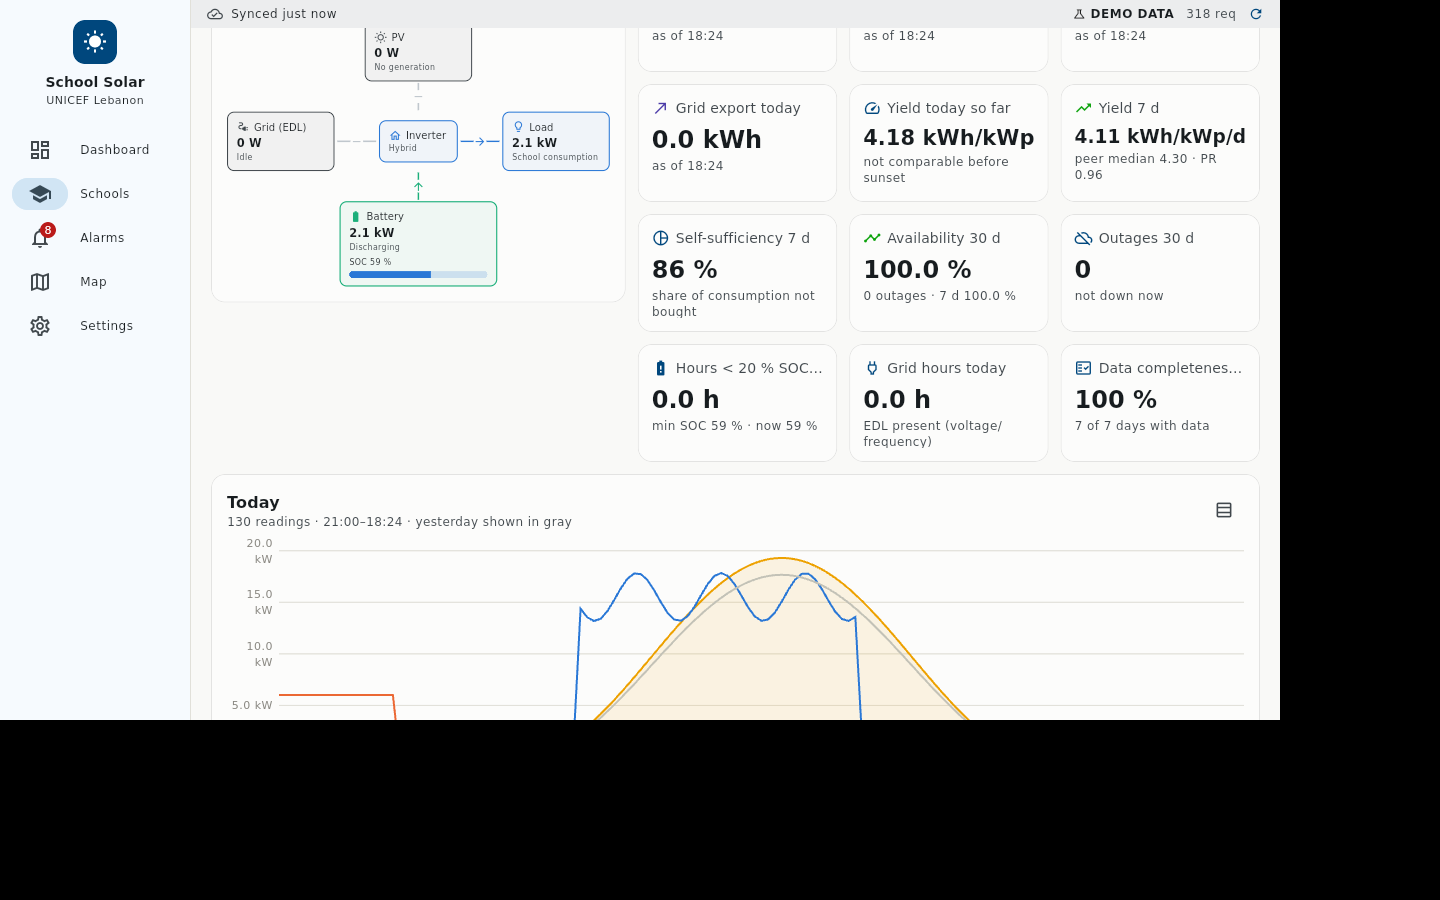
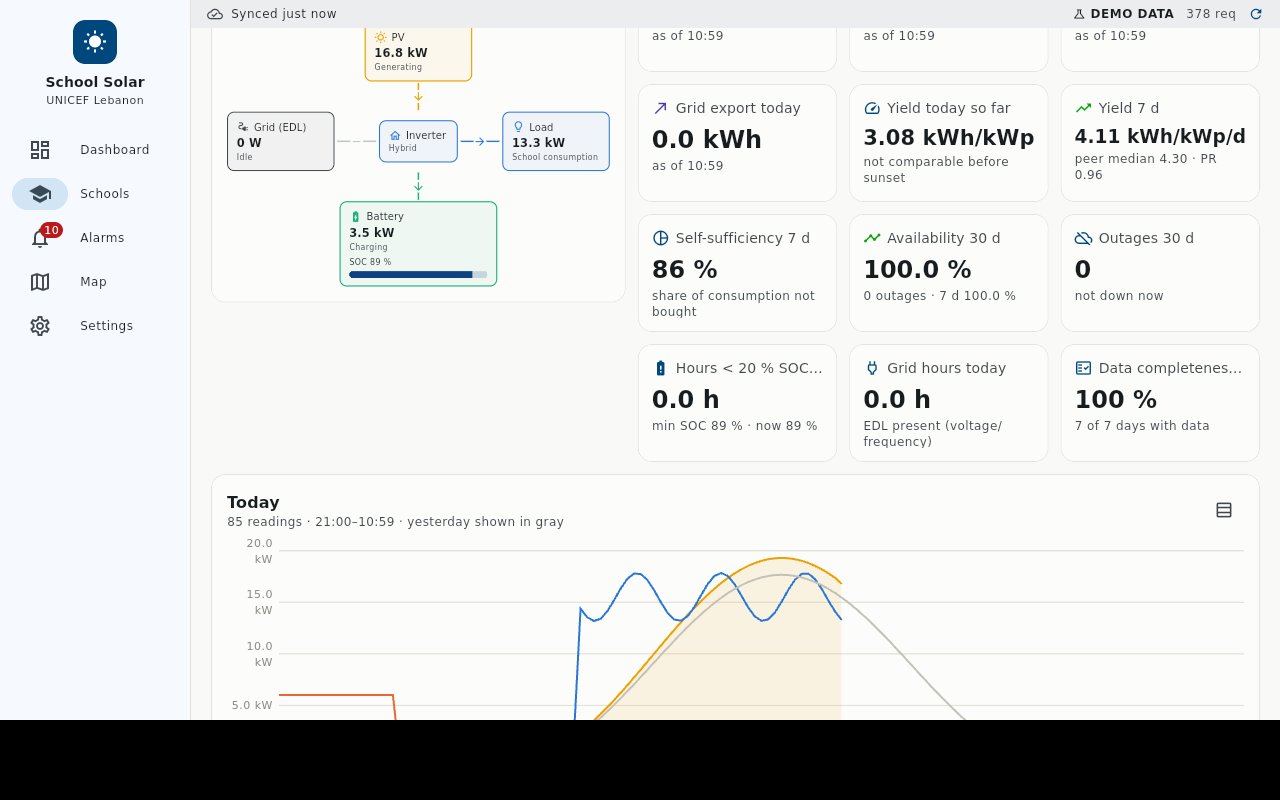
Refresh screenshots: midday demo fleet, light and dark themes, all screens
Claude-Session: https://claude.ai/code/session_01CaQ1Ti7UobeCWXTw2r4q8J

diff --git a/README.md b/README.md
@@ -60,7 +60,16 @@ Notes:
 |-----|----------|
 | ![Map](docs/screenshots/map.png) | ![Settings](docs/screenshots/settings.png) |
 
-More: `docs/screenshots/` (generated with `scripts/screenshots.sh`).
+| Governorates and attention lists | School detail: today's curve |
+|----------------------------------|------------------------------|
+| ![Governorates](docs/screenshots/dashboard_5.png) | ![Today](docs/screenshots/school_detail_3.png) |
+
+| Dark theme |  |
+|------------|--|
+| ![Dashboard dark](docs/screenshots/dashboard_dark.png) | ![School detail dark](docs/screenshots/school_detail_dark.png) |
+
+All 28 captures (light and dark, every screen scrolled) are in `docs/screenshots/`, generated by
+`scripts/screenshots.sh` from the Linux desktop build in demo mode with the clock set to 14:00 Beirut time.
 
 ### Credentials
 
